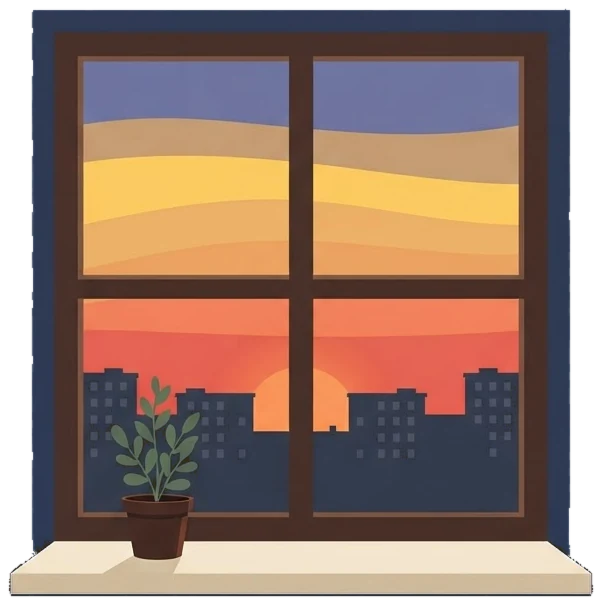
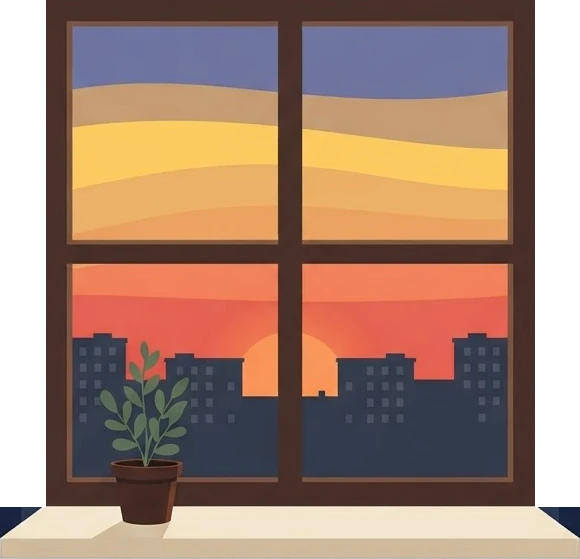
v209 노을 편: 장면 그림을 생성 일러스트 한 장씩으로(지구 공기층, 흩어지는 파란빛, 노을 풍경, 창)
Claude-Session: https://claude.ai/code/session_01BERWee5SW6nSaidm893bbT

diff --git a/gunggeum/pieces/ep/40.js b/gunggeum/pieces/ep/40.js
@@ -6,6 +6,8 @@ const sun=(p,cx,cy,r,fill=W0,rays=true)=>{const g=el('g',{},p);el('circle',{cx,c
 const mv=(c,x,y)=>{c.setAttribute('cx',x.toFixed(1));c.setAttribute('cy',y.toFixed(1));};
 const tri=(p,x,y,c)=>el('path',{d:`M${x},${y-30}L${x+18},${y}H${x-18}Z`,fill:c},p);
 const lerp=(a,b,t)=>a+(b-a)*t;
+/* v209: 그림 네 귀를 바탕에 스며들게(상자처럼 안 보이게) */
+const fea=(S,id,x,y,w,h,b=28)=>{const d=el('defs',{},S),f=el('filter',{id:id+'f',x:'-20%',y:'-20%',width:'140%',height:'140%'},d);el('feGaussianBlur',{stdDeviation:b},f);const m=el('mask',{id,maskUnits:'userSpaceOnUse',x:x-60,y:y-60,width:w+120,height:h+120},d);el('rect',{x:x+b*1.3,y:y+b*1.3,width:w-b*2.6,height:h-b*2.6,fill:'#fff',filter:`url(#${id}f)`},m);return `url(#${id})`;};
 
 EPX[40]={day:'과학',topic:'노을',cat:'빛과 색',field:'과학',frame:'v2',
  cover:{h:'노을은 왜<br>빨갈까?',draw(S){
@@ -16,36 +18,25 @@ EPX[40]={day:'과학',topic:'노을',cat:'빛과 색',field:'과학',frame:'v2',
  scenes:[
   /* v209: 매 수준 그림(생성 일러스트 집·노을)으로 다시 그리고, 설명 문장은 한 줄로 */
   {k:'낮과 저녁',h:'저녁 햇빛은<br>공기를 길게 지난다',b:'해가 낮을수록 빛이 지나는 <em>공기 길</em>이 길어.',steps:['낮 해','저녁 해'],
-   draw(S){const GY=640,TOP=330,OX=1330,OY=GY-96;
-    el('rect',{x:640,y:TOP,width:864,height:GY-TOP,fill:'#5B8FD6',opacity:.13},S);wl(S,640,TOP,1504,TOP,W0m,{'stroke-dasharray':'2 10'});tx(S,1504,TOP-18,'공기','v28','end');
-    el('image',{href:'art/40-house.webp',x:OX-140,y:GY-146,width:280,height:146},S);
-    const N={sx:OX,sy:190,ix:OX,iy:TOP},E={sx:700,sy:270};E.ix=E.sx+(TOP-E.sy)*(OX-E.sx)/(OY-E.sy);E.iy=TOP;
-    sun(S,N.sx,N.sy,30);tx(S,N.sx-60,N.sy+10,'낮 해','v28','end');sun(S,E.sx,E.sy,30,DUSK);tx(S,E.sx+60,E.sy-24,'저녁 해','v28');
-    const mk=(o,lab,lx,ly,cls)=>{const out=wl(S,o.sx,o.sy,o.sx,o.sy,W0m,{'stroke-dasharray':'2 10'}),inn=wl(S,o.ix,o.iy,o.ix,o.iy,o===N?W0:DUSK,{'stroke-width':5,'stroke-linecap':'round'}),g=grp(S,0);tx(g,lx,ly,lab,cls);return {o,out,inn,g};};
-    const Ls=[mk(N,'짧게',OX+24,TOP+110,'v28'),mk(E,'길게',930,TOP+150,'v60')];
-    return i=>{const l=Ls[i],o=l.o;
-     play(500,e=>{l.out.setAttribute('x2',lerp(o.sx,o.ix,e));l.out.setAttribute('y2',lerp(o.sy,o.iy,e));},()=>
-      play(900,e=>{l.inn.setAttribute('x2',lerp(o.ix,OX,e));l.inn.setAttribute('y2',lerp(o.iy,OY,e));},()=>show(l.g)));};}},
+   draw(S){const X=640,Y=176,W=864,H=482,k=W/1376,P=(x,y)=>[X+x*k,Y+y*k]; /* v209: 생성 일러스트 한 장(둥근 지구·공기층·두 해) 위에 이름표만 */
+    el('image',{href:'art/40-atmo.webp',x:X,y:Y,width:W,height:H,mask:fea(S,'m40a',X,Y,W,H)},S);
+    const g1=grp(S,0),g2=grp(S,0);let p=P(688,110);tx(g1,p[0]+44,p[1]+10,'낮 해','v28');p=P(688,250);tx(g1,p[0]+20,p[1],'짧게','v28');
+    p=P(97,517);tx(g2,p[0],p[1]+64,'저녁 해','v28','middle');p=P(380,420);tx(g2,p[0],p[1]-36,'길게','v60','middle');
+    return i=>show(i?g2:g1);}},
   {k:'파랑은 흩어져',h:'긴 길에서<br>파란빛은 흩어진다',b:'파란빛은 공기에 잘 튕겨서 <em>가는 길에 흩어져.</em>',steps:['햇빛 보내기'],
-   draw(S){const GY=640,TOP=300,SX=720,SY=400,OX=1360,OY=GY-96;
-    el('rect',{x:640,y:TOP,width:864,height:GY-TOP,fill:'#5B8FD6',opacity:.13},S);
-    sun(S,SX,SY,36,DUSK);el('image',{href:'art/40-house.webp',x:OX-140,y:GY-146,width:280,height:146},S);
-    const B=[[SW[0][1],-10,1],[SW[2][1],0,1],[SW[4][1],10,0]].map(([c,dy,go])=>({c,go,y0:SY+dy,l:wl(S,SX+40,SY+dy,SX+40,SY+dy,c,{'stroke-width':5,'stroke-linecap':'round'})}));
-    const blue=B[2],SC=[[-40,-90],[30,-110],[70,-60],[-60,40],[50,70],[90,10]].map(([dx,dy])=>({dx,dy,l:wl(S,0,0,0,0,SW[4][1],{'stroke-width':4,'stroke-linecap':'round',opacity:0}),d:el('circle',{cx:0,cy:0,r:6,fill:SW[4][1],opacity:0},S)}));
-    const cap1=grp(S,0);tx(cap1,1010,TOP-20,'파랑은 흩어져','v28','middle');const cap2=grp(S,0);tx(cap2,OX,GY+44,'빨강·노랑만 도착','v28','middle');
-    const MX=1010;
-    return ()=>play(1600,e=>{B.forEach(b=>{const tx2=b.go?lerp(SX+40,OX-30,e):lerp(SX+40,MX,Math.min(1,e*1.7)),ty2=b.go?lerp(b.y0,OY+(b.y0-SY)*.6,e):lerp(b.y0,b.y0+(MX-SX)*.25*(OY-SY)/(OX-SX)*0,Math.min(1,e*1.7));b.l.setAttribute('x2',tx2);b.l.setAttribute('y2',ty2);});
-      const f=Math.max(0,(e-.6)/.4);SC.forEach(s=>{const x2=MX+s.dx*f,y2=blue.y0+s.dy*f;s.l.setAttribute('x1',MX);s.l.setAttribute('y1',blue.y0);s.l.setAttribute('x2',x2);s.l.setAttribute('y2',y2);s.l.setAttribute('opacity',f?1:0);s.d.setAttribute('cx',x2);s.d.setAttribute('cy',y2);s.d.setAttribute('opacity',f?1:0);});},
-     ()=>{show(cap1);show(cap2);});}},
+   draw(S){const X=640,Y=236,W=864,H=W*420/1110,k=W/1110,id='c40s1';
+    const cp=el('clipPath',{id},el('defs',{},S)),cr=el('rect',{x:X,y:Y-40,width:W*.14,height:H+80},cp);
+    el('g',{'clip-path':`url(#${id})`},S).appendChild(el('image',{href:'art/40-scatter.webp',x:X,y:Y,width:W,height:H,mask:fea(S,'m40b',X,Y,W,H,22)},S));
+    const cap=grp(S,0);tx(cap,X+560*k,Y-24,'파랑은 흩어져','v28','middle');tx(cap,X+W,Y+H+48,'빨강·주황은 끝까지','v28','end');
+    return ()=>play(1800,e=>cr.setAttribute('width',(W*(.14+.86*e)).toFixed(1)),()=>show(cap));}},
   {k:'남은 빛의 색',h:'남은 빨강·노랑이<br>노을을 칠한다',b:'그래서 저녁 하늘과 해가 <em>붉게</em> 보여.',steps:['저녁 하늘 보기'],
    draw(S){const X=640,Y=170,W=864,H=482;
-    const im=el('image',{href:'art/40-dusk.webp',x:X,y:Y,width:W,height:H,preserveAspectRatio:'xMidYMid slice',opacity:.18},S);
-    el('rect',{x:X,y:Y,width:W,height:H,fill:'none',stroke:W0m,'stroke-width':2},S);
+    const im=el('image',{href:'art/40-dusk.webp',x:X,y:Y,width:W,height:H,preserveAspectRatio:'xMidYMid slice',opacity:.18,mask:fea(S,'m40c',X,Y,W,H)},S);
     const cap=grp(S,0);tx(cap,X+W,Y+H+56,'해 질 녘 하늘','v28','end');
     return ()=>play(1400,e=>im.setAttribute('opacity',(.18+.82*e).toFixed(2)),()=>show(cap));}}],
  sum:{lines:['저녁 햇빛은 공기를<br>길게 지나온다.','긴 길에서 파란빛은<br>거의 다 흩어진다.','남은 빨강·노랑이<br>노을을 만든다.'],
   words:[['노을','해 뜰 때나 질 때 하늘이 붉게 물드는 것'],['해 질 녘','해가 지려고 하는 무렵'],['흩어지다','여러 쪽으로 퍼져 나가다']]},
  end:{q:'해가 막 뜨는 아침에도 해는 낮게 있어. 그때 하늘은 어떨까?',a:'빛이 공기를 길게 지나와서, 아침에도 하늘이 붉게 물들 때가 있어.',h:'오늘 저녁<br>창밖 노을 색을<br>세어 봐.',btn:'창밖 보기',
-  draw(S){const im=el('image',{href:'art/40-window.webp',x:920,y:150,width:530,height:533,opacity:.35},S);
+  draw(S){const im=el('image',{href:'art/40-window.webp',x:930,y:150,width:520,height:501,opacity:.35},S); /* 창 그림은 사각형으로만 오려 둘레 벽이 남지 않게 */
    return ()=>play(1200,e=>im.setAttribute('opacity',(.35+.65*e).toFixed(2)));}}};
 })();
